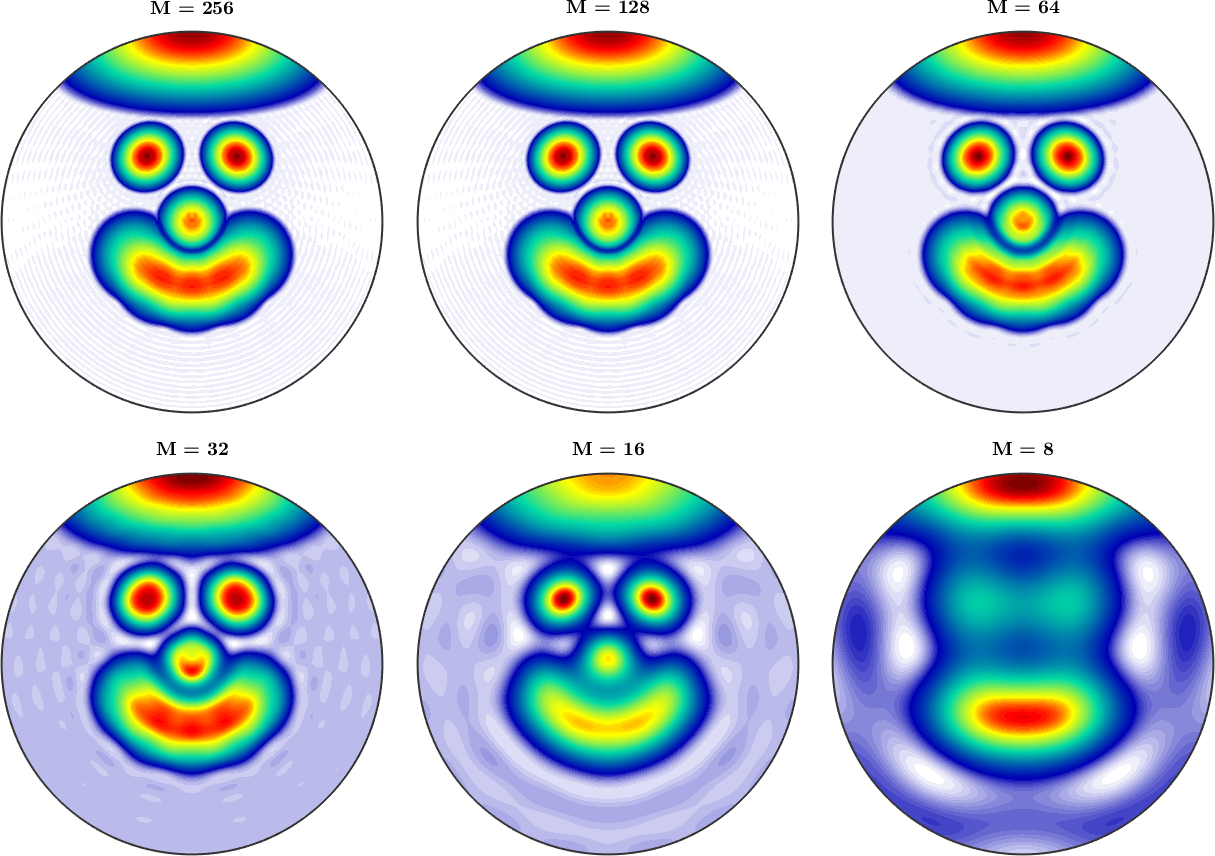
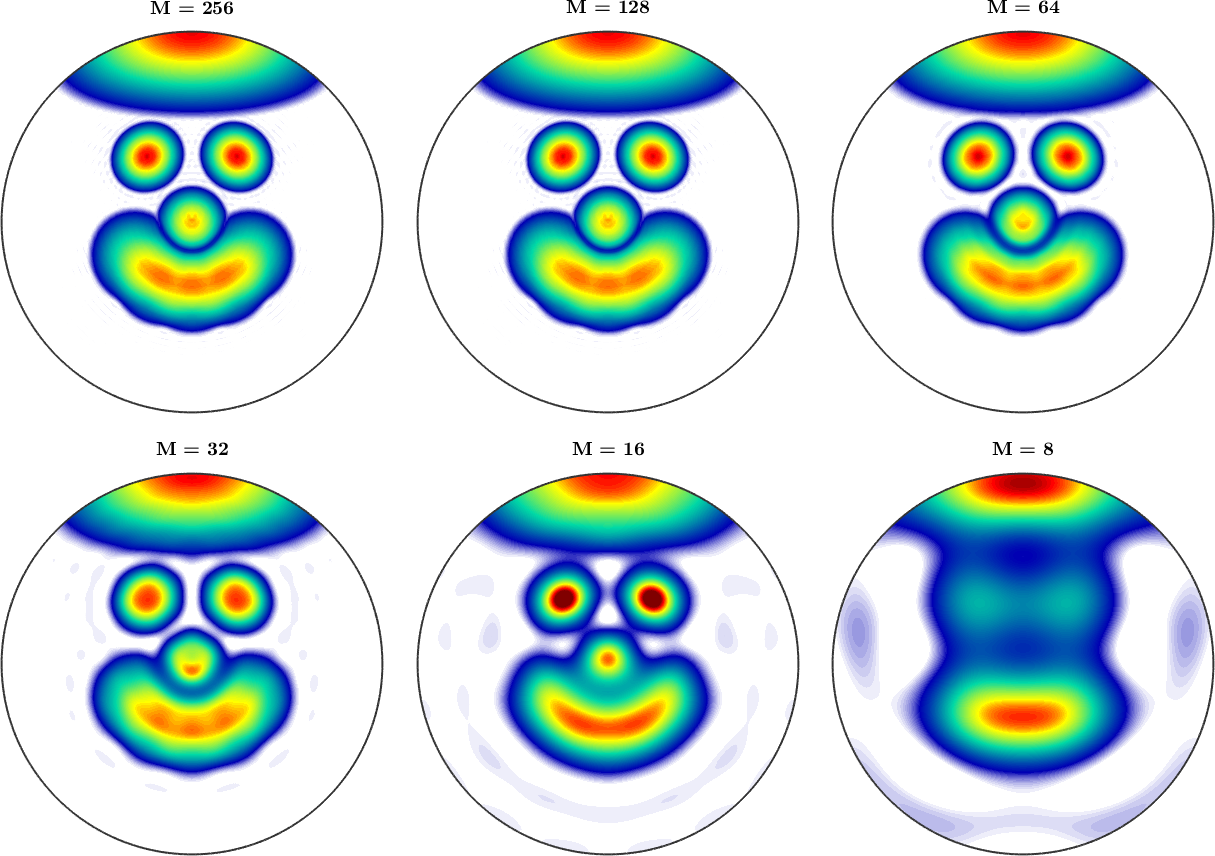
minor

diff --git a/pages/documentation_matlab/S2FunHarmonicRepresentation.html b/pages/documentation_matlab/S2FunHarmonicRepresentation.html
@@ -25,8 +25,8 @@ To make changes, update the MATLAB code and republish this document.
 <!--/introduction-->
 <p>Similarly as periodic functions may be represented as weighted sums of sines and cosines a spherical function \(f\) can be written as series of the form</p>
 <p>\[ f({\bf v}) = \sum_{m=0}^M \sum_{l = -m}^m \hat f_m^l Y_m^l({\bf v}) \]</p>
-<p>with respect to Fouriers coefficients \(\hat f_m^l\) and the so called <a href="SphericalHarmonics.html">spherical harmonics</a> \(Y_m^l({\bf v})\).</p>
-<p>There exists various normalizations for the sperical harmonics. In MTEX the \(L_2\) norm of the spherical harmonics equals</p>
+<p>with respect to Fourier coefficients \(\hat f_m^l\) and the so called <a href="SphericalHarmonics.html">spherical harmonics</a> \(Y_m^l({\bf v})\).</p>
+<p>There exists various normalizations for the spherical harmonics. In MTEX the \(L_2\) norm of the spherical harmonics equals</p>
 <p>\[\| Y_m^l \|_2 = 1\]</p>
 <p>for all \(m,l\). For more information take a look on <a href="SphericalHarmonics.html">spherical harmonics</a> and <a href="S2FunOperations.html#5">Integration of S2Fun's</a>.</p>
 <p>Within the class <code class="language-plaintext highlighter-rouge"><a href="S2FunHarmonic.S2FunHarmonic.html">S2FunHarmonic</a></code> spherical functions are represented by their Fourier coefficients which are stored in the field <code class="language-plaintext highlighter-rouge">fun.fhat</code>. As an example lets define a harmonic function which Fourier coefficients \(\hat f_0^0 = 1\), \(\hat f_1^{-1} = 0\), \(\hat f_1^0 = 3\) and \(\hat f_1^1 = 0\)</p>
@@ -45,7 +45,7 @@ fun = S2FunHarmonic
 <center>
 {% include inline_image.html file="S2FunHarmonicRepresentation_01.png" %}
 </center>
-<p>This function has the cut off degree \(M=1\). As a rule of thumb: smooth functions require only a small cut off degree whereas functions with jumps or sharp edges requires a high cut off degree. If the cut off degree is choosen to small truncation error in the form of high order oscillations are observable like in the following demonstration for the cut off degrees \(M=64\) and \(M=32\).</p>
+<p>This function has the cut off degree \(M=1\). As a rule of thumb: smooth functions require only a small cut off degree whereas functions with jumps or sharp edges requires a high cut off degree. If the cut off degree is chosen to small truncation error in the form of high order oscillations are observable like in the following demonstration for the cut off degrees \(M=64\) and \(M=32\).</p>
 {% highlight matlab %}
 sF = sqrt(abs(S2Fun.smiley('bandwidth',256)));
 
@@ -53,14 +53,14 @@ clf;
 for bw = [256 128 64 32 16 8]
   sF.bandwidth = bw;
   nextAxis;
-  pcolor(sF, 'upper');
+  pcolor(sF, 'upper','colorRange',[0,0.75]);
   mtexTitle(['M = ' num2str(bw)]);
 end
 {% endhighlight %}
 <center>
 {% include inline_image.html file="S2FunHarmonicRepresentation_02.png" %}
 </center>
-<p>The computation of the Fourier coefficients can be done in several ways. Lets first assume that the function \(f\) is known explicitely, e.g., \(f({\bf v})=({\bf v} \cdot {\bf x})^3\). In MTEX we can express this as</p>
+<p>The computation of the Fourier coefficients can be done in several ways. Lets first assume that the function \(f\) is known explicitly, e.g., \(f({\bf v})=({\bf v} \cdot {\bf x})^3\). In MTEX we can express this as</p>
 {% highlight matlab %}
 fun = @(v) dot(v,vector3d.X).^9;
 {% endhighlight %}
@@ -109,7 +109,7 @@ S2F = S2FunHarmonic
 </p>
 <p>In particular all operations on those functions are implemented as operations on the Fourier coefficients.</p>
 <p>The crucial parameter when representing spherical functions by their harmonic series expansion is the harmonic cut off degree \(M\). .</p>
-<p>To concluse this session we plot the first ten spherical harmonics</p>
+<p>To conclude this session we plot the first ten spherical harmonics</p>
 {% highlight matlab %}
 surf(S2FunHarmonic(eye(10)))
 {% endhighlight %}

diff --git a/pages/documentation_matlab/RotationFibre.html b/pages/documentation_matlab/RotationFibre.html
@@ -1,5 +1,5 @@
 ---
-title: Fibres
+title: Fibers
 
 sidebar: documentation_sidebar
 permalink: RotationFibre.html
@@ -13,7 +13,7 @@ toc: false
 This HTML was auto-generated from MATLAB code.
 To make changes, update the MATLAB code and republish this document.
     -->
-<title>Fibres</title>
+<title>Fibers</title>
 <link rel="schema.DC" href="http://purl.org/dc/elements/1.1/">
 <meta name="DC.source" content="script_RotationFibre.m">
 </head>
@@ -23,20 +23,44 @@ To make changes, update the MATLAB code and republish this document.
 <div>
 <!--introduction-->
 <!--/introduction-->
-<p>The set of all rotations that rotate a certain vector u onto a certain vector v define a fibre in the rotation space. A discretisation of such a fibre is defined by</p>
+<p>The set of all rotations that rotate a certain vector <code class="language-plaintext highlighter-rouge">u</code> onto a certain vector <code class="language-plaintext highlighter-rouge">v</code> defines a fibre in the rotation space.</p>
 {% highlight matlab %}
 u = xvector;
 v = yvector;
-rot = rotation(fibre(u,v))
+
+% define the fibre
+f = fibre(u,v)
+
+plot(f,'axisAngle','lineWidth',3,'lineColor','red')
+axis off
 {% endhighlight %}
 
 {% highlight plaintext %}
-Warning: Possibly applying an orientation to an object in specimen
-coordinates! 
+f = fibre (1 → xyz)
  
+  h || r: 1,0,0 || (0,1,0)
+{% endhighlight %}
+<center>
+{% include inline_image.html file="RotationFibre_01.png" %}
+</center>
+<p>A discretization of such a fibre can be found using the command <a href="fibre.rotation.html"><code class="language-plaintext highlighter-rouge">rotation</code></a>
+</p>
+{% highlight matlab %}
+rot = rotation(f)
+
+% plot the rotations along the fibre
+hold on
+plot(rot)
+hold off
+{% endhighlight %}
+
+{% highlight plaintext %}
 rot = rotation
   size: 1000 x 1
 {% endhighlight %}
+<center>
+{% include inline_image.html file="RotationFibre_02.png" %}
+</center>
 </div>
 </body>
 </html>

diff --git a/pages/documentation_matlab/EBSDInter.html b/pages/documentation_matlab/EBSDInter.html
@@ -148,7 +148,7 @@ ebsdNewGrid = EBSD
 {% include inline_image.html file="EBSDInter_02.png" %}
 </center>
 <p>Note, that we have not rotated the EBSD data but only the grid. All orientations as well as the position of all grains remains unchanged.</p>
-<p>Another example is the change from a square to an hexagonal grid or vice versa. In this case the command <a href="EBSD.interp.html"><code class="language-plaintext highlighter-rouge">interp</code></a> is implicitely called by the command <a href="EBSD.gridify.html"><code class="language-plaintext highlighter-rouge">gridify</code></a>. In order to demonstrate this functionality we start by EBSD data on a hex grid</p>
+<p>Another example is the change from a square to an hexagonal grid or vice versa. In this case the command <a href="EBSD.interp.html"><code class="language-plaintext highlighter-rouge">interp</code></a> is implicitly called by the command <a href="EBSD.gridify.html"><code class="language-plaintext highlighter-rouge">gridify</code></a>. In order to demonstrate this functionality we start by EBSD data on a hex grid</p>
 {% highlight matlab %}
 mtexdata ferrite silent
 

diff --git a/pages/function_reference_matlab/orientation.calcCluster.html b/pages/function_reference_matlab/orientation.calcCluster.html
@@ -98,34 +98,16 @@ odf = SO3FunRBF (432 → xyz)
  
   Bunge Euler angles in degree
      phi1     Phi    phi2  weight
-  89.4853 137.123 264.307     0.2
-    88.93 37.2102 33.2772     0.2
-  206.735 28.2847 248.627     0.2
-  123.733 176.985 187.827     0.2
-  109.525 87.7096 353.512     0.2
+   59.927 27.0708 31.6121     0.2
+  101.695 14.0102 21.7888     0.2
+  344.588 59.6312 122.008     0.2
+  117.206 64.0876 65.9505     0.2
+  63.3273 110.908 214.964     0.2
 {% endhighlight %}
 
 {% highlight matlab %}
 % find the clusters and its centers
 [cId,centerRec] = calcCluster(ori,'silent');
-{% endhighlight %}
-
-{% highlight plaintext %}
-Step size:1°
-Step size:0.20972°
-Step size:0.068719°
-Step size:1°
-Step size:0.20972°
-Step size:0.085899°
-Step size:1.9531°
-Step size:3.0518°
-Step size:1°
-Step size:0.26214°
-Step size:0.085899°
-Step size:1°
-Step size:0.512°
-Step size:0.16777°
-Step size:0.13422°
 {% endhighlight %}
 
 {% highlight matlab %}
